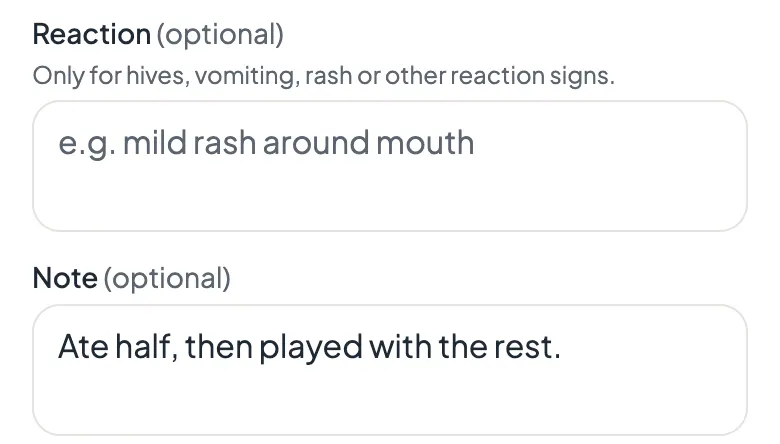
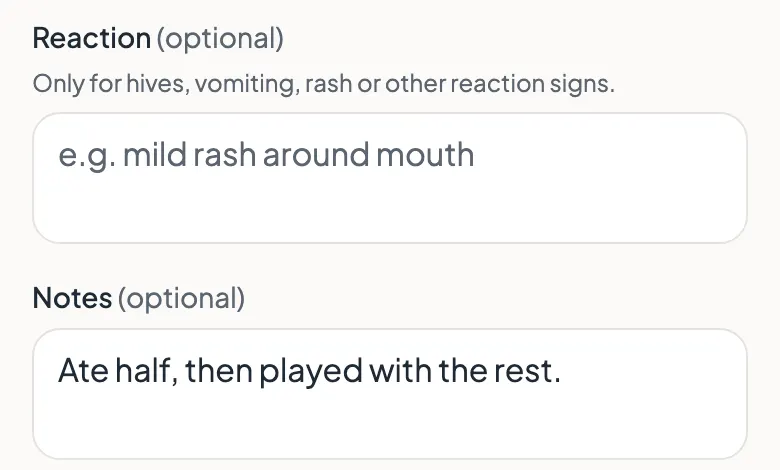
Guides: owner-approved plate copy, "its own rating", retaken shots (ledger 962, 964)
- How to log a meal: step 1 trimmed as approved; steps 2 and 3 swap to the
  page's order (stars before When), meal-3-stars -> meal-2-stars and
  meal-2-when -> meal-3-when (light and dark).
- How to serve from storage: step 3 "each item within a container has its
  own rating"; step 4 starts at "Use **Reaction**".
- 964: "has its own stars" -> "has its own rating" in both guides and in
  docs/HANDOFF.md. Star counts, the step headings and "Stars are optional."
  stay. No app string, aria label or tour slide said it.
- Alts for meal-1, meal-2-stars, meal-5, serve-1..4 (GUIDE-DRAFTS 1-2).
- Retaken, light and dark, on made-up data: meal-1-foods, meal-2-stars,
  meal-3-when, meal-5-saved, serve-1..4, and recipe-5-saved (953's calendar
  button; same crop). meal-4-notes and serve-5-served kept.
- content.test.ts pins follow the new text, alts, paths and sizes.

diff --git a/client/src/features/safety/content.test.ts b/client/src/features/safety/content.test.ts
@@ -118,7 +118,7 @@ describe("how-to guides (item 601)", () => {
       "\n\nWhen complete, your item is listed on the **Storage** page with the servings left and when to use it by. To change it later, including which foods are in it, choose **Edit** from its **⋮** menu.\n\n",
     );
     expect(getGuide("how-to-add-to-storage")?.body).toContain("Use within 90d");
-    const stars = steps("how-to-log-a-meal").find((s) => s.startsWith("3. ")) ?? "";
+    const stars = steps("how-to-log-a-meal").find((s) => s.startsWith("2. ")) ?? "";
     // Ledger 902 put it between "Each item…" and the second-tap clear.
     expect(stars).toContain(" Tap one to five stars, five for a big hit. ");
   });
@@ -127,20 +127,26 @@ describe("how-to guides (item 601)", () => {
   it("log-a-meal and serve-from-storage read exactly as approved", () => {
     const steps = (slug: string) => (getGuide(slug)?.body ?? "").split(/^## /m).slice(1);
     const meal = steps("how-to-log-a-meal");
-    // Ledger 902 (plan step 2.3): the one plate page. Drafted for the owner's review.
+    // Ledger 962 (owner-approved 2026-11-08): the one plate page, steps in page
+    // order (stars before When). 964: "its own rating", not "its own stars".
     expect(meal[0]).toContain(
-      "\n\nTap **+ Add more** and type to search, or look under **In storage**, **Recipes**, and **Foods**. Tick everything your baby had, then tap **Done**. Each one goes on the plate as its own item. Left something out of a recipe? Tap **Ingredients** under it and untick that food, so it isn't counted as tried.\n\n",
+      "\n\nTap **+ Add more** and type to search, or look under **In storage**, **Recipes**, and **Foods**. Tick everything your baby had, then tap **Done**. Left something out of a recipe? Tap **Ingredients** under it and untick that food.\n\n",
     );
-    expect(meal[2]).toContain(
-      "\n\nEach item on the plate has its own stars. Tap one to five stars, five for a big hit. Tap the same star again to clear it.\n\n",
+    expect(meal[0]).toContain(
+      '![Add more with "avo" typed in the search and Foods picked, and Avocado ticked.](/guides/meal-1-foods.webp)',
     );
     expect(meal[1]).toMatch(
-      /^2\. Set the time\n\n\*\*When\*\* defaults to the current time\. If the meal was earlier, tap it, scroll to the day and time, and tap \*\*Done\*\*\.\n\n!\[/,
+      /^2\. Rate it with stars \(optional\)\n\nEach item on the plate has its own rating\. Tap one to five stars, five for a big hit\. Tap the same star again to clear it\.\n\n!\[/,
+    );
+    expect(meal[2]).toMatch(
+      /^3\. Set the time\n\n\*\*When\*\* defaults to the current time\. If the meal was earlier, tap it, scroll to the day and time, and tap \*\*Done\*\*\.\n\n!\[/,
     );
     expect(meal[3]).toMatch(/^4\. Add a reaction or a note \(optional\)\n/);
-    // Item 743: the stars shot lists Banana (three) above Avocado (five); the alt follows it.
-    expect(meal[2]).toContain(
-      "![Under Rating (optional), Banana has three stars and Avocado has five, each with a Clear link.](/guides/meal-3-stars.webp)",
+    expect(meal[2]).toContain("](/guides/meal-3-when.webp)");
+    // Ledger 962: the plate lists items in tick order, Avocado first; the alt follows it.
+    expect(meal[1]).toContain("![On the plate, Avocado has five stars and Banana has three.](/guides/meal-2-stars.webp)");
+    expect(meal[4]).toContain(
+      "![Home's Food log shows the new meal, today at 11:56 AM, with Avocado and Banana on their own lines and its note below.](/guides/meal-5-saved.webp)",
     );
     // Item 782: the step-3 alt stays "Sweet Potato and Lentils"; the shots were retaken in that pick order.
     expect(steps("how-to-custom-recipe")[2]).toContain(
@@ -151,18 +157,21 @@ describe("how-to guides (item 601)", () => {
       "\n\nUse **−** and **+** to set how many servings your baby had. **When** defaults to the current time. If you served earlier, tap it, scroll to the day and time, and tap **Done**.\n\n",
     );
     expect(serve[0]).toContain(
-      "![The Serve sheet with Sweet Potato Lentil Patties under Serving, servings set to 1, and When showing today at 11:59 AM.](/guides/serve-1-servings.webp)",
+      "![On the plate, Sweet Potato Lentil Patties from the Freezer, 8 of 8 left, has servings set to 1, and When below shows today at 11:59 AM.](/guides/serve-1-servings.webp)",
     );
     // Item 763: several items per serve (ledger 760) get their own step 2.
     expect(serve[1]).toBe(
-      "2. Serve more than one item (optional)\n\nTap **+ Add more** to serve something else with it: another item from storage, or a fresh food or recipe that isn't in storage.\n\n![Under Serving, Sweet Potato Lentil Patties and a Broccoli, Carrot container each have their own servings, and a fresh Banana is added.](/guides/serve-2-more.webp)\n\n",
+      "2. Serve more than one item (optional)\n\nTap **+ Add more** to serve something else with it: another item from storage, or a fresh food or recipe that isn't in storage.\n\n![On the plate, Sweet Potato Lentil Patties and a Broccoli, Carrot container each have their own servings, and a fresh Banana is added.](/guides/serve-2-more.webp)\n\n",
     );
     expect(serve[2]).toMatch(
-      /^3\. Rate it with stars \(optional\)\n\nEach item on the plate has its own stars, and a container holding several foods gets a row for each\. Tap one to five stars, five for a big hit\. Tap the same star again to clear it\.\n\n!\[/,
+      /^3\. Rate it with stars \(optional\)\n\nEach item on the plate has its own rating, and each item within a container has its own rating\. Tap one to five stars, five for a big hit\. Tap the same star again to clear it\.\n\n!\[/,
     );
-    expect(serve[3]).toMatch(/^4\. Add a reaction or a note \(optional\)\n/);
-    // The plate page's one label (PP-COPY round 1).
-    expect(serve[3]).toContain("Everything else goes in **Notes**.");
+    expect(serve[2]).toContain(
+      "![Sweet Potato Lentil Patties has four stars, and the Broccoli, Carrot container has a row of stars for each food.](/guides/serve-3-stars.webp)",
+    );
+    expect(serve[3]).toBe(
+      '4. Add a reaction or a note (optional)\n\nUse **Reaction** only for signs like hives, vomiting, or a rash. Everything else goes in **Notes**.\n\n![Reaction (optional) is left empty, and Notes reads "Ate half, then played with the rest."](/guides/serve-4-notes.webp)\n\n',
+    );
     // Item 786: serve Undo removed (785); deleting the meal reverses a serve; pre-780 shot and alt.
     // Ledger 902: Edit meal changes a kept container's servings (chair decision, SPEC §1.4.5).
     expect(serve[4]).toBe(
@@ -333,17 +342,16 @@ describe("dark guide screenshots", () => {
     }
   });
 
-  // Item 738: the three shots whose UI changed in 736 were retaken at the
-  // committed crop (located against the old light image), so their framing,
-  // and so their size, is what it was. meal-2-when shows the log-meal page's
-  // Rating label behind the Time sheet's overlay, so it was retaken too.
-  it("keeps the retaken 736 shots at their original crop size", () => {
+  // Ledger 962: the plate-page shots were retaken on new crops (light and dark
+  // the same size); recipe-5-saved kept its crop, located against the old
+  // light image, for 953's calendar button.
+  it("keeps the 962 retakes at their shot size", () => {
     const expected: Record<string, number[]> = {
-      "meal-2-when": [780, 1002],
-      "meal-3-stars": [780, 328],
-      // Renumbered by 763 (a new step 2), bytes unchanged.
-      "serve-3-stars": [780, 220],
-      "serve-4-notes": [780, 444],
+      "meal-2-stars": [780, 478],
+      "meal-3-when": [780, 1074],
+      "serve-3-stars": [780, 696],
+      "serve-4-notes": [780, 470],
+      "recipe-5-saved": [780, 1416],
     };
     for (const [name, dims] of Object.entries(expected)) {
       for (const file of [`${name}.webp`, `${name}-dark.webp`]) {

diff --git a/docs/HANDOFF.md b/docs/HANDOFF.md
@@ -14,7 +14,7 @@ Personal and server-access details are deliberately NOT here (this repo is publi
 
 What a parent can do today:
 
-- **Log meals** for a baby: a plate of foods, recipes and container servings, each with its own stars, a time (backdating allowed, future refused), a reaction field, and notes. Meals can save leftovers straight to Storage.
+- **Log meals** for a baby: a plate of foods, recipes and container servings, each with its own rating, a time (backdating allowed, future refused), a reaction field, and notes. Meals can save leftovers straight to Storage.
 - **Storage**: containers of prepped food with a location (Fridge / Freezer / Counter), freshness window, optional best-by date that overrides the window, optional servings tracking, and a Serve action that logs a meal from the container. One container can hold a whole multi-food meal, or the parent can split it into separate containers.
 - **Foods** catalog (92 foods incl. a Spices & herbs category and five ingredient foods; ledger 835 added Brussels sprouts, pumpkin, kale, beets, cranberries; ledger 841 added kidney, pinto, white and butter beans and edamame) with iron / vitamin C / fiber levels, choking risk, allergens, and filters; parents can add custom foods.
 - **Recipes** (catalog + per-user custom), with nutrition derived from ingredients, timed and temperatured steps, and at least three recipes per food.
